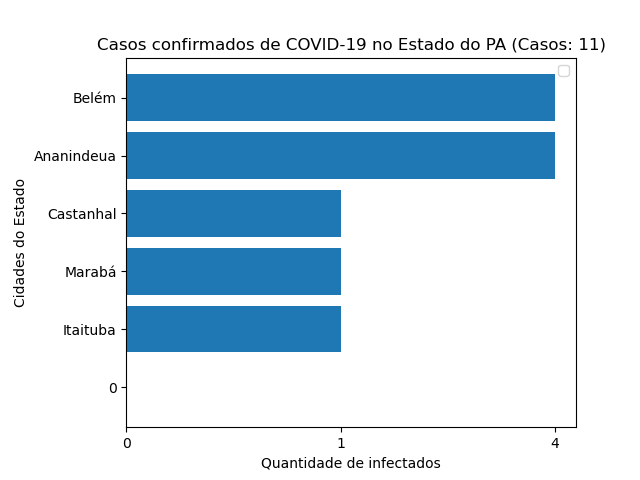
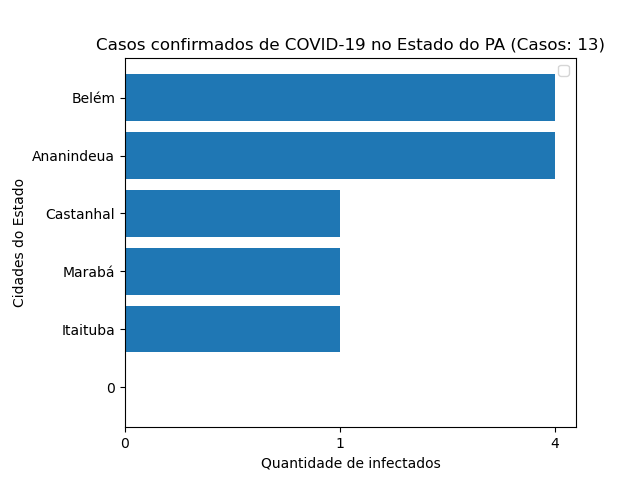
Atualização nos dados

diff --git a/Grafico_de_Barras.py b/Grafico_de_Barras.py
@@ -6,7 +6,7 @@ cidades = ['0','Itaituba','Marabá','Castanhal','Ananindeua','Belém']
 
 casos = ['0','1','1','1','4','4']
 
-titulo = "Casos confirmados de COVID-19 no Estado do PA (Casos: 11)"
+titulo = "Casos confirmados de COVID-19 no Estado do PA (Casos: 13)"
 cidadesx = "Quantidade de infectados"
 casosy = "Cidades do Estado"
 
